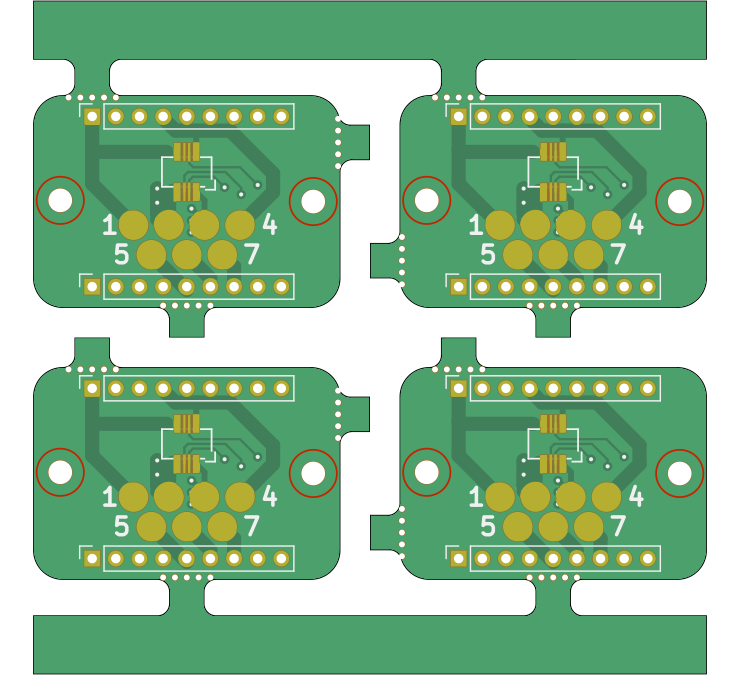
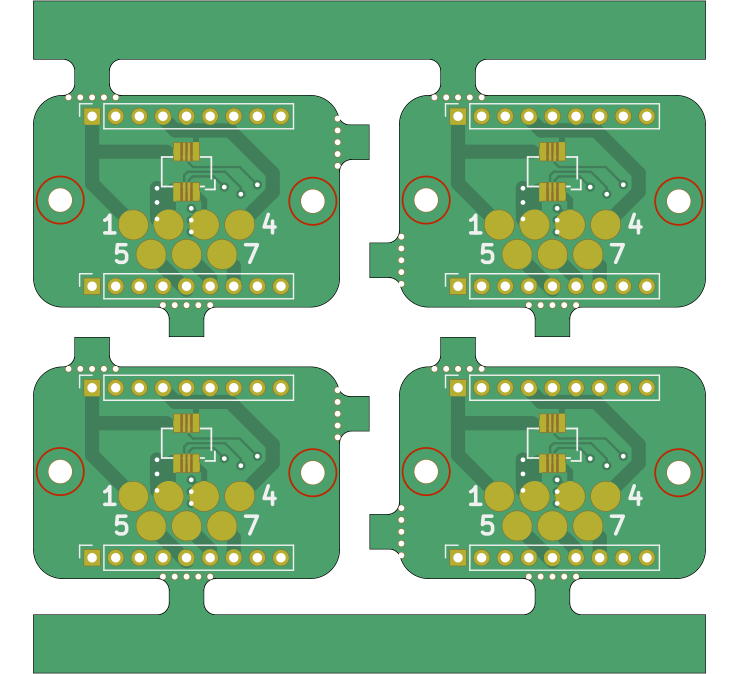
Fix numerical imprecisions

diff --git a/kikit/panelize.py b/kikit/panelize.py
@@ -717,11 +717,10 @@ class Panel:
 
         revertTransformation = makeRevertTransformation(rotationAngle, originPoint, translation)
         try:
-            o = Substrate(edges, -bufferOutline,
+            s = Substrate(edges, 0,
                 revertTransformation=revertTransformation)
-            s = Substrate(edges, bufferOutline)
             self.boardSubstrate.union(s)
-            self.substrates.append(o)
+            self.substrates.append(s)
             self.substrates[-1].annotations = annotations
         except substrate.PositionError as e:
             point = undoTransformation(e.point, rotationAngle, originPoint, translation)
@@ -898,9 +897,8 @@ class Panel:
         boards substrates and the frame. Return a tuple of vertical and
         horizontal cuts.
         """
-        frameInnerRect = expandRect(shpBoxToRect(self.boardsBBox()),
-            hspace - SHP_EPSILON, vspace + SHP_EPSILON)
-        frameOuterRect = expandRect(frameInnerRect, width + SHP_EPSILON)
+        frameInnerRect = expandRect(shpBoxToRect(self.boardsBBox()), hspace, vspace)
+        frameOuterRect = expandRect(frameInnerRect, width)
         outerRing = rectToRing(frameOuterRect)
         innerRing = rectToRing(frameInnerRect)
         polygon = Polygon(outerRing, [innerRing])
@@ -930,9 +928,8 @@ class Panel:
         Adds a rail to top and bottom.
         """
         minx, miny, maxx, maxy = self.panelBBox()
-        thickness -= SHP_EPSILON
-        topRail = box(minx, maxy - SHP_EPSILON, maxx, maxy + thickness)
-        bottomRail = box(minx, miny + SHP_EPSILON, maxx, miny - thickness)
+        topRail = box(minx, maxy, maxx, maxy + thickness)
+        bottomRail = box(minx, miny, maxx, miny - thickness)
         self.appendSubstrate(topRail)
         self.appendSubstrate(bottomRail)
 
@@ -941,9 +938,8 @@ class Panel:
         Adds a rail to left and right.
         """
         minx, miny, maxx, maxy = self.panelBBox()
-        thickness -= SHP_EPSILON
-        leftRail = box(minx - thickness + SHP_EPSILON, miny, minx, maxy)
-        rightRail = box(maxx - SHP_EPSILON, miny, maxx + thickness, maxy)
+        leftRail = box(minx - thickness, miny, minx, maxy)
+        rightRail = box(maxx, miny, maxx + thickness, maxy)
         self.appendSubstrate(leftRail)
         self.appendSubstrate(rightRail)
 
@@ -1225,8 +1221,8 @@ class Panel:
         outerBounds = self.substrates[0].partitionLine.bounds
         for s in islice(self.substrates, 1, None):
             outerBounds = shpBBoxMerge(outerBounds, s.partitionLine.bounds)
-        fill = box(*outerBounds).difference(bBoxes.buffer(SHP_EPSILON))
-        self.appendSubstrate(fill.buffer(SHP_EPSILON))
+        fill = box(*outerBounds).difference(bBoxes)
+        self.appendSubstrate(fill)
 
         # Make the cuts from the bounding boxes of the PCB
         substrateBoundaries = [linestringToSegments(rectToShpBox(s.boundingBox()).exterior)
@@ -1510,12 +1506,11 @@ class Panel:
                         (x[0] - c * vthickness // 2, x[1]),
                         (x[0] + c * vthickness // 2, x[1])])
                     cuts.append(cut)
-        backbones = list([b.buffer(SHP_EPSILON, join_style=2) for b in pieces])
-        self.appendSubstrate(backbones)
+        self.appendSubstrate(pieces)
         return cuts
 
     def addCornerFillets(self, radius):
-        corners = self.panelCorners(-SHP_EPSILON, -SHP_EPSILON)
+        corners = self.panelCorners()
         filletOrigins = self.panelCorners(radius, radius)
         for corner, opposite in zip(corners, filletOrigins):
             square = shapely.geometry.box(
@@ -1524,15 +1519,15 @@ class Panel:
                 max(corner[0], opposite[0]),
                 max(corner[1], opposite[1])
             )
-            filletCircle = Point(opposite).buffer(radius + SHP_EPSILON, resolution=16)
+            filletCircle = Point(opposite).buffer(radius, resolution=16)
 
             cutShape = square.difference(filletCircle)
             self.boardSubstrate.cut(cutShape)
 
     def addCornerChamfers(self, size):
-        corners = self.panelCorners(-SHP_EPSILON, -SHP_EPSILON)
-        verticalStops = self.panelCorners(-SHP_EPSILON, size)
-        horizontalStops = self.panelCorners(size, -SHP_EPSILON)
+        corners = self.panelCorners()
+        verticalStops = self.panelCorners(0, size)
+        horizontalStops = self.panelCorners(size, 0)
         for t, v, h in zip(corners, verticalStops, horizontalStops):
             cutPoly = Polygon([t, v, h, t])
             self.boardSubstrate.cut(cutPoly)

diff --git a/kikit/common.py b/kikit/common.py
@@ -12,7 +12,7 @@ import shapely.geometry
 PKG_BASE = os.path.dirname(__file__)
 KIKIT_LIB = os.path.join(PKG_BASE, "resources/kikit.pretty")
 SHP_EPSILON = pcbnew.FromMM(0.001) # Common factor of enlarging substrates to
-                                  # cover up numerical imprecisions of Shapely
+                                   # cover up numerical imprecisions of Shapely
 
 def fromDegrees(angle):
     return angle * 10
@@ -37,13 +37,14 @@ def fitsIn(what, where):
 
 def combineBoundingBoxes(a, b):
     """ Retrun wxRect as a combination of source bounding boxes """
-    x = min(a.GetX(), b.GetX())
-    y = min(a.GetY(), b.GetY())
-    topLeft = wxPoint(x, y)
-    x = max(a.GetX() + a.GetWidth(), b.GetX() + b.GetWidth())
-    y = max(a.GetY() + a.GetHeight(), b.GetY() + b.GetHeight())
-    bottomRight = wxPoint(x, y)
-    return wxRect(topLeft, bottomRight)
+    x1 = min(a.GetX(), b.GetX())
+    y1 = min(a.GetY(), b.GetY())
+    x2 = max(a.GetX() + a.GetWidth(), b.GetX() + b.GetWidth())
+    y2 = max(a.GetY() + a.GetHeight(), b.GetY() + b.GetHeight())
+    # Beware that we cannot use the following code! It will add 1 to width and
+    # height. See https://github.com/wxWidgets/wxWidgets/blob/e43895e5317a1e82e295788264553d9839190337/src/common/gdicmn.cpp#L94-L114
+    # return wxRect(topLeft, bottomRight)
+    return wxRect(x1, y1, x2 - x1, y2 - y1)
 
 def collectEdges(board, layerName, sourceArea=None):
     """ Collect edges in sourceArea on given layer including footprints """

diff --git a/kikit/substrate.py b/kikit/substrate.py
@@ -615,11 +615,11 @@ class Substrate:
         Add fillets to inner conernes which will be produced a by mill with
         given radius.
         """
-        if millRadius < SHP_EPSILON:
+        EPS = fromMm(0.01)
+        RES = 32
+        if millRadius < EPS:
             return
         self.orient()
-        RES = 64
-        EPS = fromMm(0.01)
         self.substrates = self.substrates.buffer(millRadius - EPS, resolution=RES) \
                               .buffer(-millRadius, resolution=RES) \
                               .buffer(EPS, resolution=RES)

diff --git a/doc/panelization.md b/doc/panelization.md
@@ -320,6 +320,18 @@ debugRenderPartitionLines(self)
 Render partition line to the panel to be easily able to inspect them via
 Pcbnew.
 
+#### `getAuxiliaryOrigin`
+```
+getAuxiliaryOrigin(self)
+```
+None
+
+#### `getGridOrigin`
+```
+getGridOrigin(self)
+```
+None
+
 #### `getPrlFilepath`
 ```
 getPrlFilepath(self, path=None)
@@ -346,6 +358,12 @@ inheritDesignSettings(self, board)
 ```
 Inherit design settings from the given board specified by a filename or
 a board
+
+#### `inheritPageSize`
+```
+inheritPageSize(self, board)
+```
+Inherit page size from a board specified by a filename or a board
 
 #### `inheritProperties`
 ```
@@ -496,6 +514,12 @@ setGridOrigin(self, point)
 ```
 Set grid origin
 
+#### `setPageSize`
+```
+setPageSize(self, size)
+```
+Set page size - either a string name (e.g., A4) or size in KiCAD units
+
 #### `setProperties`
 ```
 setProperties(self, properties)
@@ -520,6 +544,14 @@ setVCutLayer(self, layer)
 ```
 Set layer on which the V-Cuts will be rendered
 
+#### `translate`
+```
+translate(self, vec)
+```
+Translates the whole panel by vec. Such a feature can be useful to
+specify the panel placement in the sheet. When we translate panel as the
+last operation, none of the operations have to be placement-aware.
+
 ## Substrate class
 
 This class represents a pice of substrate (with no components). Basically it is
@@ -528,6 +560,12 @@ a partition line for the substrate. Read more about partition lines in
 [understanding tabs](understandingTabs.md).
 
 
+
+#### `backToSource`
+```
+backToSource(self, point)
+```
+Return a point in the source form (if a reverse transformation was set)
 
 #### `boundary`
 ```
@@ -607,6 +645,12 @@ a tuple (None, None).
 
 Returns a pair tab and cut outline. Add the tab it via union - batch
 adding of geometry is more efficient.
+
+#### `translate`
+```
+translate(self, vec)
+```
+Translate substrate by vec
 
 #### `union`
 ```
